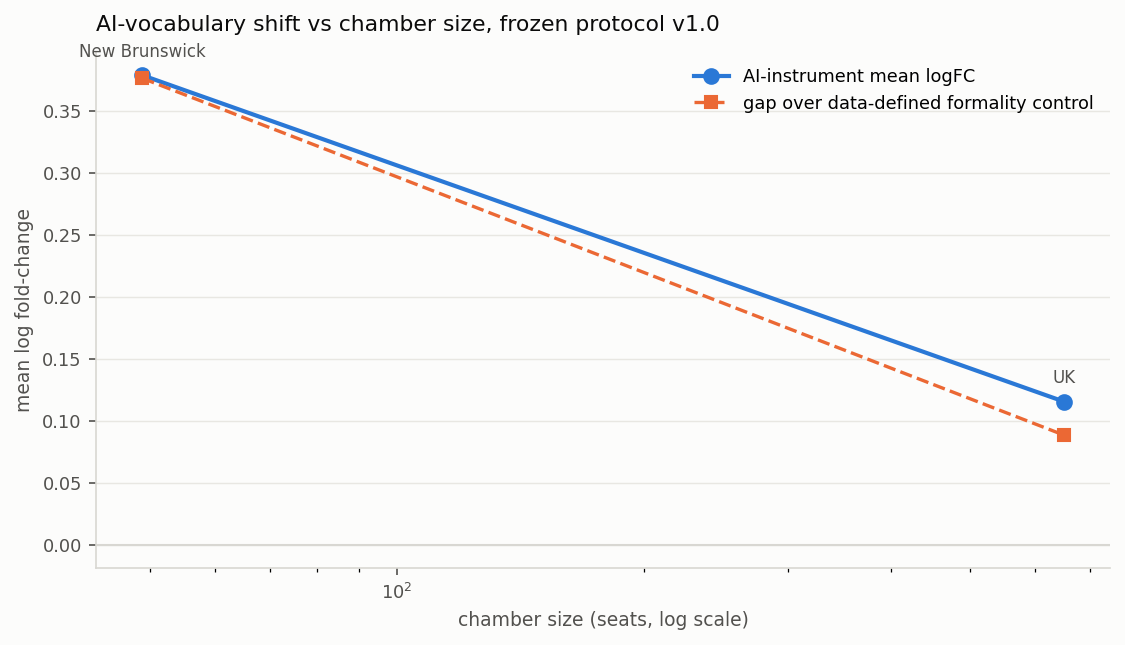
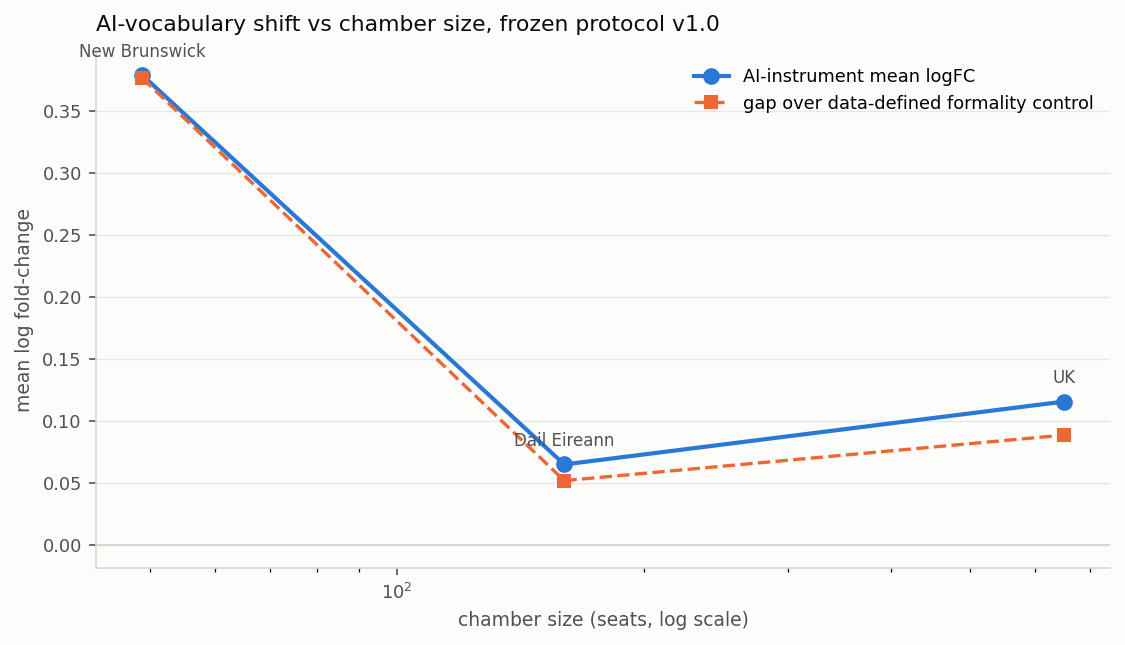
S10: Ireland replicates (p<0.001) and falsifies the chamber-size hypothesis
- Dail Eireann: 748 sittings, 55.5M English words, primary +0.0647 p<0.001,
  register control 0.990, formality gap +0.0516, CI [1.038,1.047]
- Fisher over 2 confirmatory corpora: X2=27.6 df=4 p=1.5e-5
- Ireland (160 seats, +0.065) sits BELOW the UK (650 seats, +0.116), so
  effect size is not monotone in chamber size; the hypothesis is dropped
- Reframing recorded: NB (+0.379) is discovery-inflated and should be quoted
  as an upper bound; the replicable effect is ~+0.06..+0.08 across the two
  confirmatory chambers

Claude-Session: https://claude.ai/code/session_01X3juPXmVjxsEPQV1bymwDR

diff --git a/analysis/s10/PILOT.md b/analysis/s10/PILOT.md
@@ -598,3 +598,48 @@ carries the larger offset while showing the smaller effect, so the artifact
 runs opposite to the observed difference. The ~3.6x NB/UK ratio is real.
 (The p-values were never exposed to this: placebos are frequency-matched to
 the instrument, so they carry the same offset.)
+
+## Ireland (Dáil Éireann) replication + the chamber-size hypothesis FAILS
+
+Corpus: 748 sittings via the Oireachtas API (Akoma Ntoso XML), 251k scoreable
+segments, 56.2M words, 394 speakers; Irish-language segments (1.0%) excluded,
+leaving 55.5M English words. Frozen protocol, unmodified.
+
+- **Replicates: mean logFC = +0.0647, p < 0.001** (0/1,000 placebos; placebo
+  median −0.159, max −0.024).
+- Formal-register control **0.990**; data-defined formality gap **+0.0516**;
+  clustered bootstrap CI **[1.038, 1.047]**, excludes 1.0.
+- Pooled-ratio sweep mostly non-significant (p 0.05–0.21), same
+  broad-but-shallow shape as the UK.
+
+**Fisher over the two confirmatory corpora: X² = 27.6, df = 4,
+p = 1.5 × 10⁻⁵**, with NB reported separately as discovery.
+
+### The size hypothesis is not supported — and this matters
+
+| chamber | seats | primary |
+|---|---|---|
+| New Brunswick | 49 | +0.3791 |
+| **Dáil Éireann** | **160** | **+0.0647** |
+| UK Commons | 650 | +0.1155 |
+| UK Commons (within-speaker) | 650 | +0.0776 |
+
+Ireland sits *below* the UK despite being a quarter its size, so effect size
+is **not monotone in chamber size**. Ireland was chosen precisely to test
+this (mid-size chamber, UK-scale corpus, separating seats from corpus
+volume) and it falsifies the ordering.
+
+What the data actually support: **NB is a large outlier; the two
+confirmatory chambers agree closely with each other** — Ireland +0.065 and
+UK within-speaker +0.078 (the like-for-like comparison, since both chambers
+held elections in the post-window and the UK full-corpus figure carries
+compositional inflation).
+
+**Consequence for the paper, stated plainly.** NB's magnitude should be
+treated as **discovery-inflated and quoted as an upper bound**, not as the
+typical effect. The corpus was selected *because* a signal was visible in it
+(the Bill Oliver clip), which selects on the outcome even though the
+instrument and protocol are external and frozen. **The replicable effect
+size is ~+0.06 to +0.08 mean logFC**, established on two independent
+chambers and 127M words. The claim the study can defend is that the shift is
+real, detectable, and consistent across parliaments — not that it is large.
